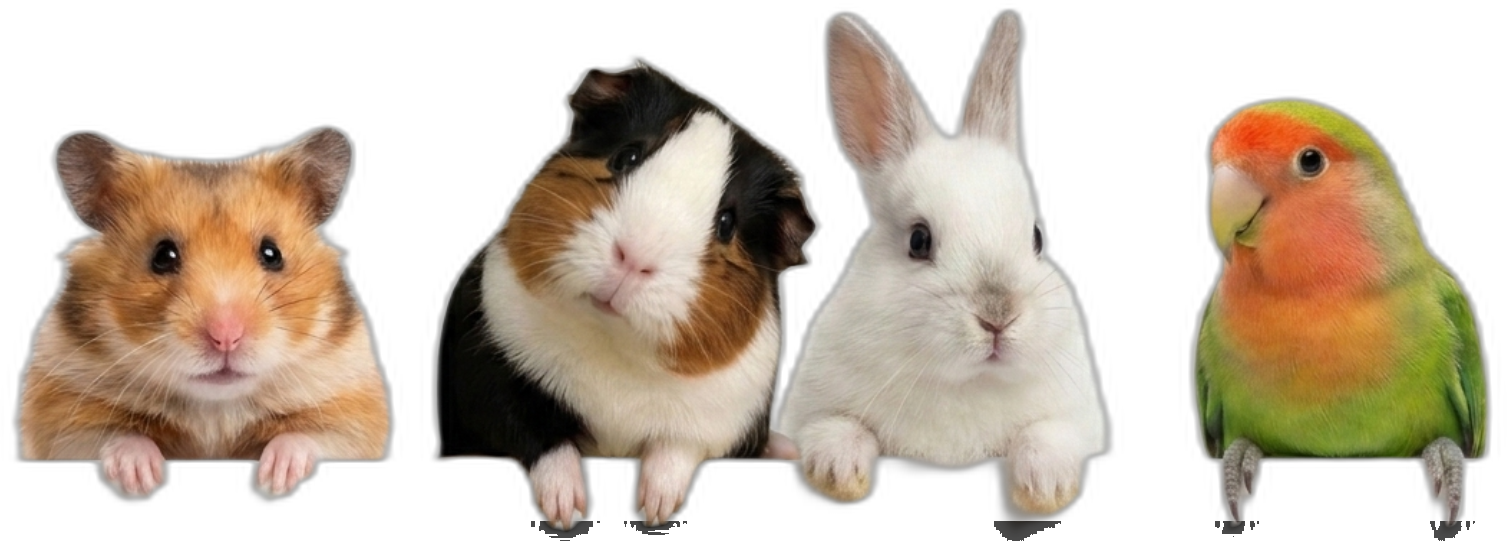
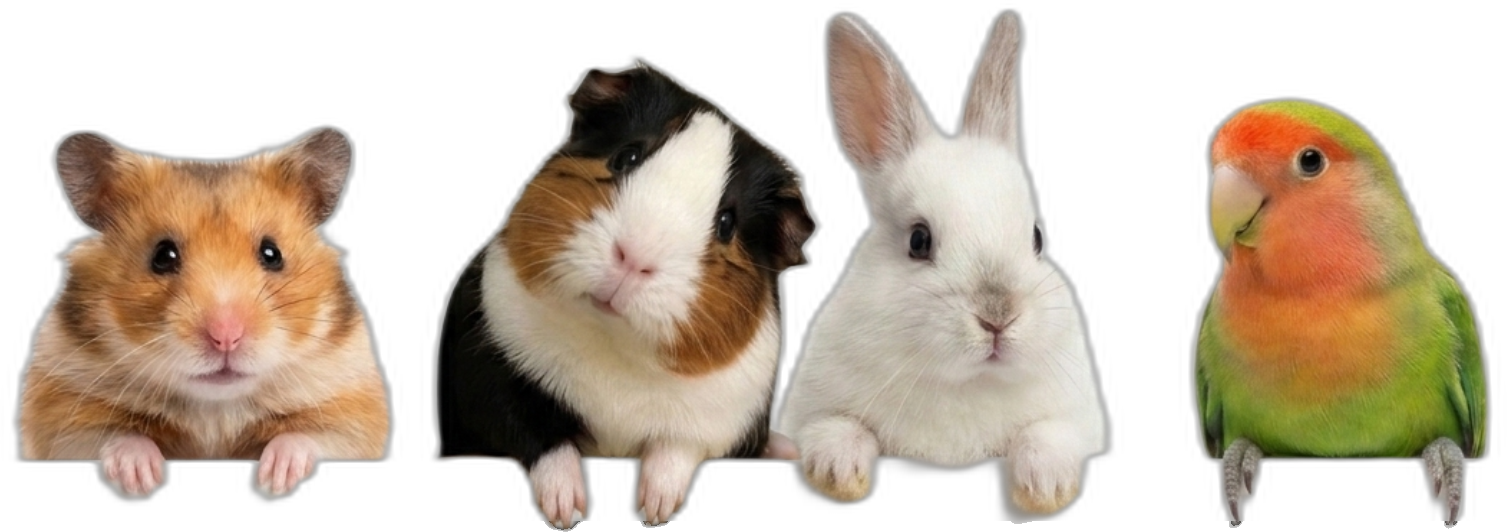
fix: quitar sombras residuales de las patas y agrandar los animales del hero de tienda

diff --git a/tienda.html b/tienda.html
@@ -68,7 +68,7 @@ tailwind.config = {
       </div>
     </div>
   </div>
-  <img src="assets/img/tienda-hero-animales.png" alt="Hámster, cobaya, conejo y agapornis" class="absolute bottom-0 left-1/2 -translate-x-1/2 w-[300px] pointer-events-none select-none z-20">
+  <img src="assets/img/tienda-hero-animales.png" alt="Hámster, cobaya, conejo y agapornis" class="absolute bottom-0 left-1/2 -translate-x-1/2 w-[420px] pointer-events-none select-none z-20">
 </section>
 
 <!-- Categorías -->